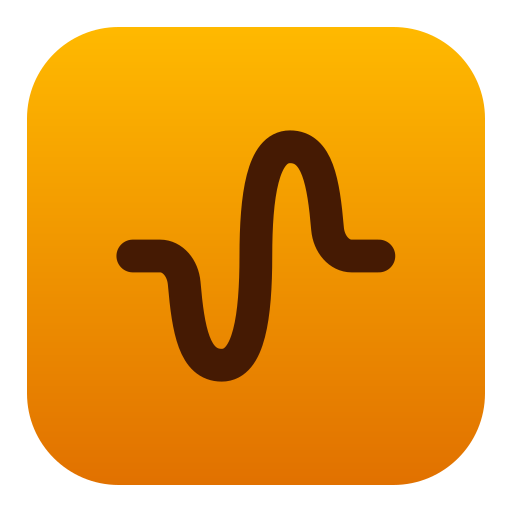
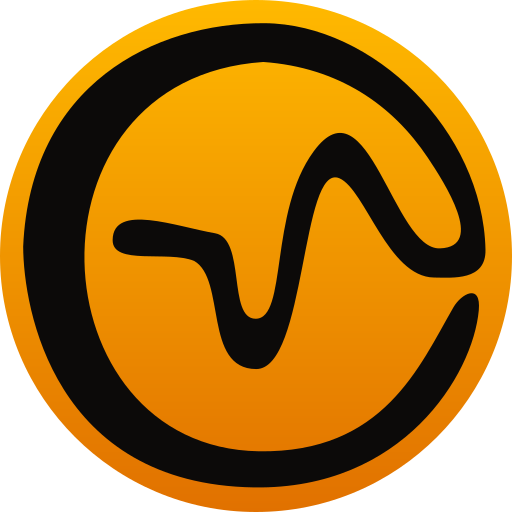
feat(brand): replace Tabler placeholder with the official Oscine mark
Inline the songbird-wave mark from the app's AppLogo.vue so it themes with
--ui-primary / --ui-text-inverted, and swap favicon, og image, and touch icon
for the app's rasterised icon set.

diff --git a/src/components/Mark.vue b/src/components/Mark.vue
@@ -1,4 +1,14 @@
 <script setup lang="ts">
+/*
+ * The Oscine mark: a songbird traced by a sound wave, on a filled disc.
+ *
+ * Same two paths the app draws in `src/renderer/shell/AppLogo.vue` and
+ * rasterises for its icon set — the design source is the app's
+ * `build/oscine-logo.svg`. Inlined here rather than referenced as a file so the
+ * disc takes `--ui-primary` and the wave `--ui-text-inverted`, exactly as the
+ * app themes it. The disc fills the square, so the mark is a full circle at any
+ * size; size it from the outside with the `size` prop.
+ */
 withDefaults(
   defineProps<{
     size?: string
@@ -8,10 +18,28 @@ withDefaults(
 </script>
 
 <template>
-  <span
-    :class="['inline-flex items-center justify-center rounded-lg bg-primary text-inverted', size]"
+  <svg
+    :class="['oscine-mark inline-block shrink-0', size]"
+    viewBox="0 0 1354.467 1354.467"
     aria-hidden="true"
+    xmlns="http://www.w3.org/2000/svg"
   >
-    <UIcon name="i-tabler-wave-sine" class="size-[62%]" />
-  </span>
+    <circle class="oscine-mark__disc" cx="677.2335" cy="677.2335" r="677.2335" />
+    <g transform="translate(-598.58913,-19.030152)">
+      <path
+        class="oscine-mark__wave"
+        d="M 1271.0557,1308.4772 C 741.17898,1300.5229 660.50918,836.35762 659.88847,671.06575 679.01264,242.13636 1006.5391,79.342604 1297.8645,80.320666 c 287.8771,1.999713 578.1381,285.266774 585.0415,599.231634 1.8271,83.09344 -87.4357,74.08921 -135.9221,73.67694 C 1625.0317,752.1923 1564.8036,520.11148 1496.6137,490.707 1394.7409,446.77798 1408.915,995.74836 1276.2005,995.36418 1136.1883,994.95891 1197.1081,757.53559 1112.1331,709.26659 1042.6225,680.78906 895.63262,722.65572 896.55917,653.7796 c 1.32376,-98.40319 168.87113,-35.26362 270.89343,-17.69712 82.2508,14.16219 32.5252,226.31273 107.4051,226.17704 84.8037,-0.15367 34.7098,-281.18693 153.7278,-443.05095 143.6896,-195.41712 211.2257,262.43113 334.0382,256.85152 120.8637,-4.07975 12.4601,-172.84518 -32.3796,-239.95212 -93.2309,-139.52905 -235.7971,-238.9368 -435.17,-253.12107 -653.94281,43.98741 -603.58575,1020.6215 -11.5658,1029.8941 329.8012,5.1655 424.3939,-224.53758 514.5889,-380.86778 20.7702,-35.99999 73.678,-65.17349 67.0985,7.83207 -15.4265,171.17161 -201.7082,474.52301 -594.14,468.63191 z"
+      />
+    </g>
+  </svg>
 </template>
+
+<style scoped>
+.oscine-mark__disc {
+  fill: var(--ui-primary);
+}
+
+.oscine-mark__wave {
+  fill: var(--ui-text-inverted);
+}
+</style>
